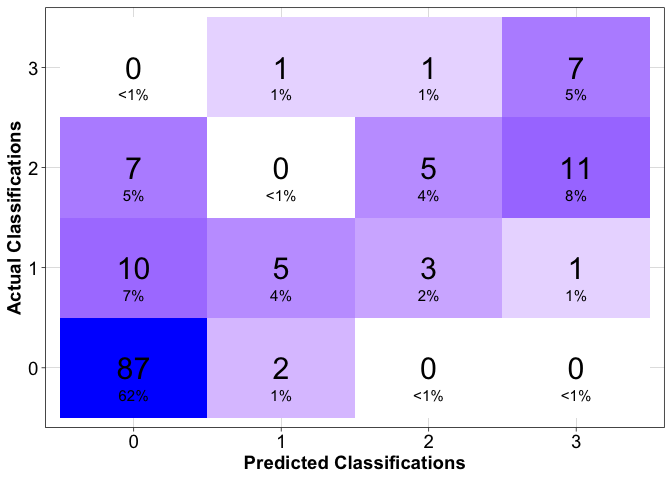
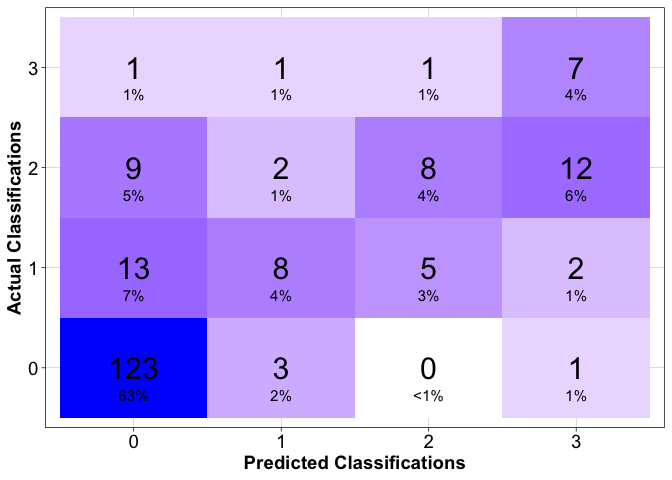
New predictions 10 june

diff --git a/README.md b/README.md
@@ -71,7 +71,7 @@ predictions <- read_forecast()
 glimpse(predictions)
 ```
 
-    ## Rows: 199
+    ## Rows: 258
     ## Columns: 18
     ## $ version             <chr> "v0.1.3", "v0.1.3", "v0.1.3", "v0.1.3", "v0.1.3", …
     ## $ ensemble_n          <dbl> 10, 10, 10, 10, 10, 10, 10, 10, 10, 10, 10, 10, 10…
@@ -104,4 +104,4 @@ glimpse(predictions)
 
 ### Last Updated
 
-    ## [1] "2022-06-03"
+    ## [1] "2022-06-10"
